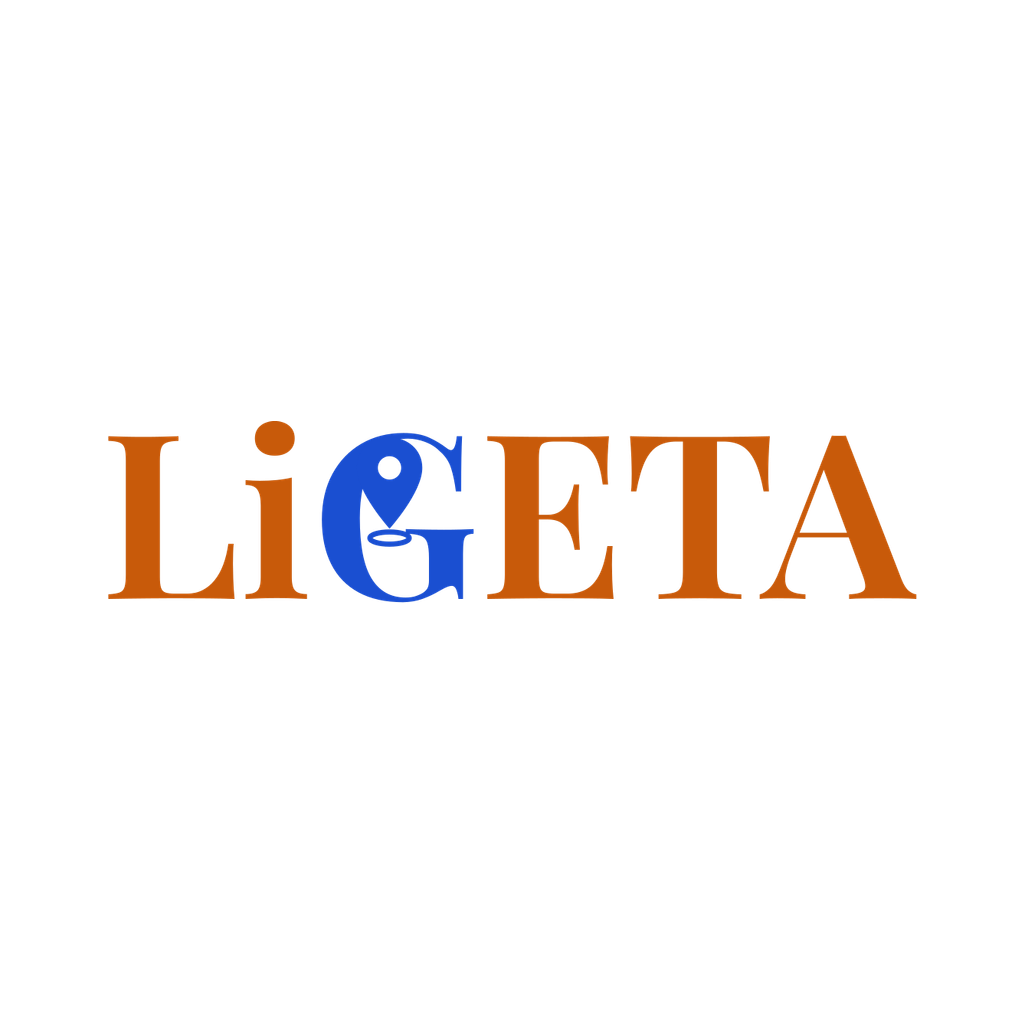
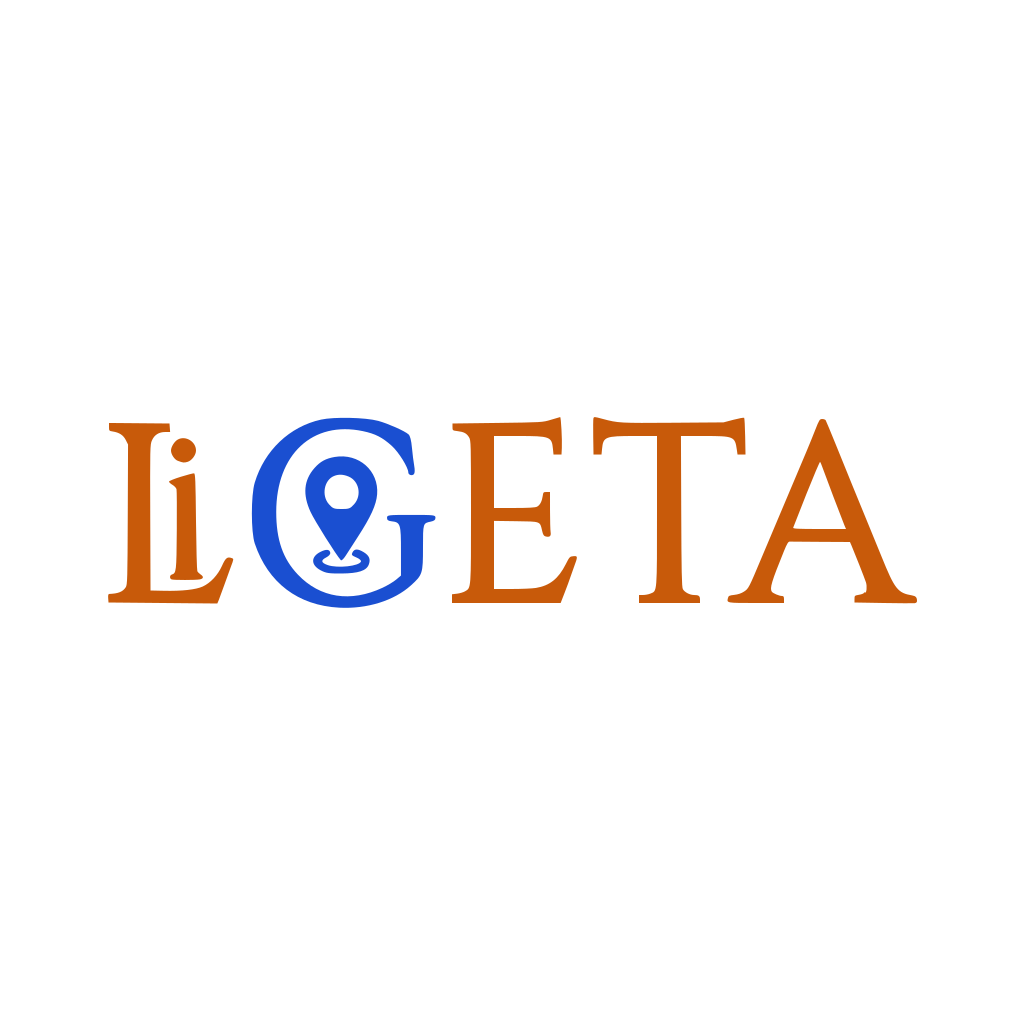
Rebuild the wordmark by tracing the original artwork, not a substitute font
The font-replacement attempt (Playfair Display) changed the letterforms and
proportions in ways that looked wrong up close (the "i" read as a plain "l")
and shrank the buffer screen's on-screen size. Reverted that entirely.
Traced the actual original "LiGETA" artwork into vector paths with potrace
instead - same letterforms, same proportions, same size as before any of
this, just vector-crisp and recolored. Also fixed the Play Store feature
graphic's "With" label, which was centered over the whole word instead of
over the G like the real buffer screen already does.

Changed region(s): [[0.0938, 0.4062, 0.9062, 0.5938]]

diff --git a/apps/partner-app/src/components/IntroOverlay.tsx b/apps/partner-app/src/components/IntroOverlay.tsx
@@ -16,7 +16,7 @@ interface IntroOverlayProps {
 // below) — it's independent of their fixed left-to-right screen position.
 const SEGMENT_SETS = {
   en: {
-    sourceHeight: 237,
+    sourceHeight: 171,
     reverseDropOrder: false,
     // "Li" / "G" (with the pin) / "ETA" — drops in reading order, left to right.
     // withAnchorIndex: which segment the small "With" label sits above - "G"
@@ -25,9 +25,9 @@ const SEGMENT_SETS = {
     withAnchorIndex: 1,
     withOffsetPx: 0,
     segments: [
-      { source: require('../../assets/intro-en-1-partner.png'), width: 260 },
-      { source: require('../../assets/intro-en-2-partner.png'), width: 215 },
-      { source: require('../../assets/intro-en-3-partner.png'), width: 577 },
+      { source: require('../../assets/intro-en-1-partner.png'), width: 115 },
+      { source: require('../../assets/intro-en-2-partner.png'), width: 139 },
+      { source: require('../../assets/intro-en-3-partner.png'), width: 352 },
     ],
   },
   ar: {
